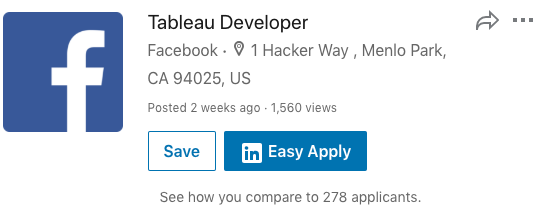
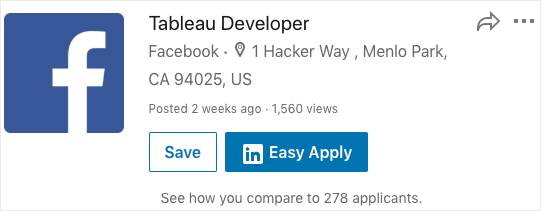
Fix typos and improve FB image

diff --git a/tips-for-getting-your-next-developer-job.rst b/tips-for-getting-your-next-developer-job.rst
@@ -32,7 +32,7 @@ these tips will focus on getting your foot in the door. Specifically:
 .. figure:: img/2019-facebook-job-opening.png
    :alt: A Facebook job post on LinkedIn with almost 300 applications in 2 weeks
 
-   That's almost 300 applications in 2 weeks on just on one of the job sites where this is posted.
+   That's almost 300 applications in 2 weeks on just one of the job sites where this is posted.
 
 
 When applying, go deep not wide
@@ -74,7 +74,7 @@ and get candidates who want to work there not those who just want a job.
 .. figure:: img/2019-duckduckgo-application-questions.png
    :alt: Questions from the DuckDuckGo application process
 
-   Questions from the DuckDuckGo application process.
+   Here's some of the questions from the DuckDuckGo application process.
    This is your place to stand out!
    DuckDuckGo was **not** one of the companies we interviewed.
 
@@ -161,7 +161,7 @@ learn more directly from the source, and show you're interested.
 .. figure:: img/2019-hiring-manager-phrases.png
    :alt: Some of the phrases heard from hiring managers in our interviews
 
-   Some of the phrases heard from hiring managers in our interviews
+   Here's some of the phrases we heard from hiring managers in interviews.
 
 
 Conclusion
